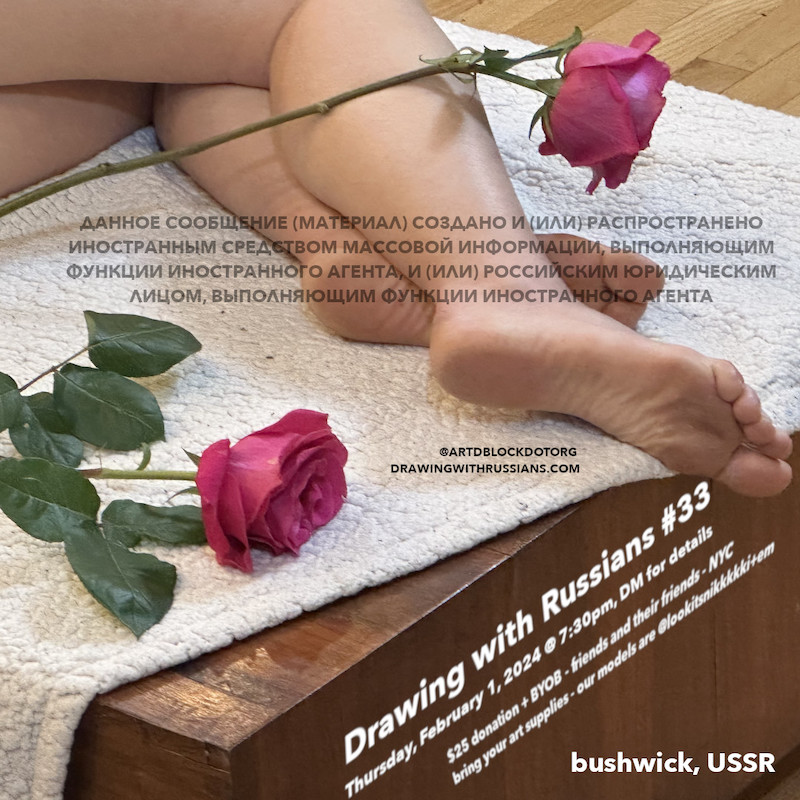
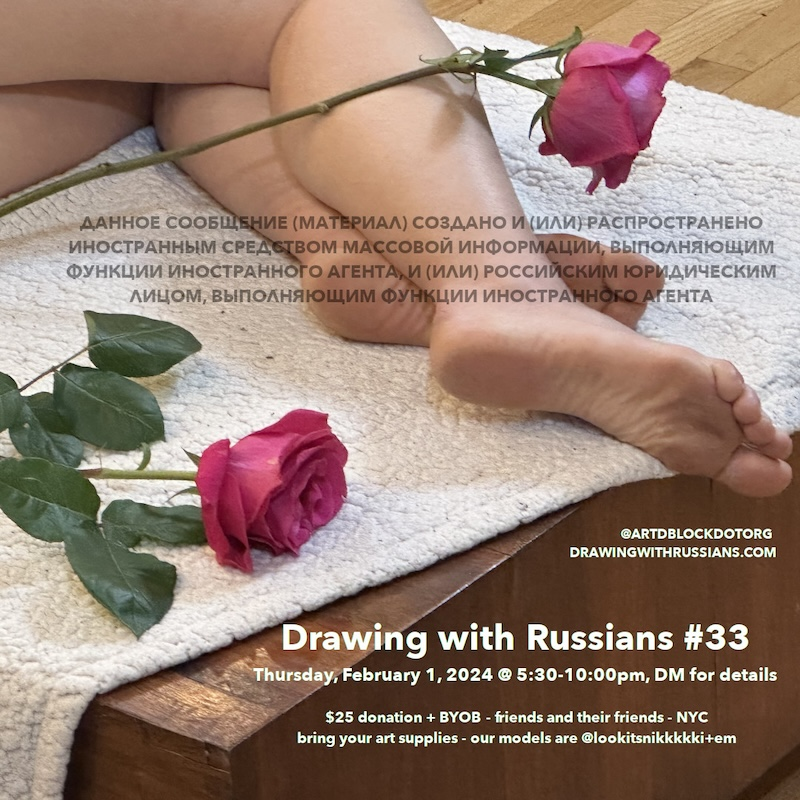
Updated FAQ for #33.

Changed region(s): [[0.3125, 0.5938, 0.9688, 1.0], [0.5, 0.5625, 0.7188, 0.5938]]

diff --git a/faq.html b/faq.html
@@ -14,26 +14,25 @@
         <div class="answer">Drawing with Russians is a non-instructed figure drawing salon, loosely, or culturally, affiliated with Russian speakers, followed by an after-party.</div>
 
         <div class="question">When is Drawing with Russians?</div>
-        <div class="answer">Drawing with Russians is on the first Thursday of every month, except when otherwise. We used to open doors at 7, but are moving time up to earlier at 6pm.</div>
+        <div class="answer">Drawing with Russians is on the first Thursday of every month, except when otherwise. Doors open at <strike>7pm</strike>, 5:30pm, and close at 6:30pm, or when we're at capacity, whichever comes first. Just like most good things in Russia, the after party ends abruptly at 10:00pm.</div>
 
         <div class="question">Why is this event called "Drawing with Russians"?</div>
         <div class="answer">The host coined the name in 2015 while attending a figure drawing gathering almost exclusively composed of Russian speakers, and organized by another Russian-speaking artist.</div>
 
         <div class="question">Why didn't you rename the event after the invasion of Ukraine in 2022?</div>
-        <div class="answer">The war in Ukraine 🇺🇦 is a tragedy, and we stand with the people of Ukraine. Russia has gifted the world tremendous art and culture, along with its share of murderers, brought to power with the hands of its people that often supported their
-            crimes, chose to, couldn't, or wouldn't resist. This is the truth. We still admire Russian culture and didn't want to hide our origins by changing the name of the event.</div>
+        <div class="answer">The war in Ukraine 🇺🇦 is a tragedy, and we stand with the people of Ukraine. Russia has gifted the world tremendous art and culture, along with its share of murderers, brought to power with the hands of its people that often supported their crimes, chose to, couldn't, or wouldn't resist. This is the truth. We still admire Russian culture and didn't want to hide our origins by changing the name of the event.</div>
 
         <div class="question">When is the next drawing?</div>
-        <div class="answer">Please <a href="subscribe.html">sign up</a> for our mailing list and we'll send you an invitation about a week in advance.</div>
+        <div class="answer">Please <a href="subscribe.html">sign up</a> for our mailing list and we'll send you an invitation about a week in advance, followed by a confirmation within 24 hours of the event.</div>
 
         <div class="question">This FAQ is long, should I read the entire thing?</div>
-        <div class="answer">Yes, we ask you to read this entire FAQ to avoid asking too many questions. The most interesting ones are towards the end.</div>
+        <div class="answer">Yes, we ask you to read this entire FAQ to avoid asking too many questions. The most interesting ones are towards the end, but don't skip the middle.</div>
 
         <div class="question">What happens at figure drawing with Russians during drawing?</div>
         <div class="answer">We socialize, drink wine (for those who drink), and draw a model in 20-minute intervals for about 2 hours. Short poses first, long poses last.</div>
 
         <div class="question">What are the rules during drawing?</div>
-        <div class="answer">Russian prison rules: no photos of the model, no talking, not even whispering, and you must draw.</div>
+        <div class="answer">We obey Russian prison rules. No photos of the model, no talking, not even whispering, and you must draw.</div>
 
         <div class="question">Can I come to Drawing with Russians even though I am not Russian?</div>
         <div class="answer">While encouraged, you do not have to be Russian or a Russian speaker to come. Typically, most attendees are not Russian, but we would be happy to <a href="books.html">recommend some books</a> before your first visit.</div>
@@ -51,7 +50,7 @@
         <div class="answer">Yes enthusiastically. We don't expect you to draw well, nor to speak French fluently as most properly educated Russians. And while we do occasionally host professional artists, we see a lot more beginners.</div>
 
         <div class="question">Is there a model?</div>
-        <div class="answer">Yes, there is a model, and they are paid to pose with your suggested donations of $25 per person.</div>
+        <div class="answer">Yes, there is a model, and they are paid to pose with your suggested donations of $25 per person. Sometimes we have two models.</div>
 
         <div class="question">Is the model nude?</div>
         <div class="answer">Yes.</div>
@@ -63,10 +62,10 @@
         <div class="answer">Yes, we do, when we send the invitation about a week in advance.</div>
 
         <div class="question">Can I model at Drawing with Russians?</div>
-        <div class="answer">Yes, please attend one event, and mention to the host that you would like to pose.</div>
+        <div class="answer">Yes, we hire models exclusively from attendees. Please attend an event, and mention to the host that you would like to pose, then reach out via e-mail to set a date.</div>
 
         <div class="question">How long is the drawing?</div>
-        <div class="answer">Drawing is typically 2 hours with breaks every 20 minutes. We typically start with 5x short 1-minute poses, 5x 5-minute poses, 3x 10-minute poses, and finish with 2x 20-minute ones.</div>
+        <div class="answer">Drawing is 2 hours with breaks every 20 minutes. We start with 5x short 1-minute poses, 5x 5-minute poses, 3x 10-minute poses, and finish with 2x 20-minute ones.</div>
 
         <div class="question">Do I need to bring paper and crayons?</div>
         <div class="answer">Yes, please bring your own supplies. That said, we will have charcoal and paper available for those that come without their own for any reason.</div>
@@ -90,7 +89,7 @@
         <div class="answer">No, you will not need to wear a mask, and expect most people to not be wearing one.</div>
 
         <div class="question">Where is drawing?</div>
-        <div class="answer">Drawing started in Hudson Yards, Manhattan, New York, at the host's home and art studio. It's currently attempting to move to a bigger space in Bushwick, Brooklyn, USSR. Personal invitations include all the location details.</div>
+        <div class="answer">Drawing is in Hudson Yards, Manhattan, New York, at the host's home and art studio. We are looking for a new space to accommodate more people, and have attempted, and failed, to move to a bigger space in Bushwick, Brooklyn, USSR. Personal invitations always include all the location details.</div>
 
         <div class="question">How will I know who the host is?</div>
         <div class="answer">The host is the one who runs the timers and makes announcements.</div>
@@ -99,10 +98,10 @@
         <div class="answer">We suggest a $25 donation. This is not a for-profit business. Money is used to pay the model, the space, dealing with building complaints, and alcohol.</div>
 
         <div class="question">Isn't Russian economy growing? Wasn't it $20 during Perestroika?</div>
-        <div class="answer">Yes, Russian economy is always growing, except when otherwise. We used to ask for $20, but the Ruble has suffered from Western sanctions, causing inflation and expensive incidents.</div>
+        <div class="answer">Yes, Russian economy is always growing, except when otherwise. We used to ask for $20, but the Ruble has suffered from Western sanctions, causing inflation and expensive incidents resulting in building fines.</div>
 
         <div class="question">How many people do usually come to drawing?</div>
-        <div class="answer">We have had the pleasure of hosting up to 60 people. Typically, half stay for the after-party.</div>
+        <div class="answer">We have had the pleasure of hosting up to 50 people, which is the absolute max we can handle the same night. Typically, half stay for the after-party.</div>
 
         <div class="question">How can I pay?</div>
         <div class="answer">Bring $25 cash. We will also provide Venmo information during the event. Please remember that we have files on you and your loved ones in the unfortunate event that you forget to pay.</div>
@@ -111,7 +110,7 @@
         <div class="answer">Thank you, yes. We commonly host Russian oligarchs, and will not be inquiring about how you made your fortune.</div>
 
         <div class="question">Do I need to RSVP?</div>
-        <div class="answer">Yes, we ask you to please RSVP by replying to the invitation e-mail. You must RSVP or decline to stay on the list.</div>
+        <div class="answer">Yes, we ask you to please RSVP by replying to the invitation e-mail. You must RSVP or decline to stay on the list. List purges based on arbitrary criteria come unexpected. Please read <a href="https://www.goodreads.com/book/show/70561.The_Gulag_Archipelago_1918_1956" target="_blank">"The Gulag Archipelago" by Aleksandr Solzhenitsyn</a> for more information.</div>
 
         <div class="question">What is the drawing vibe?</div>
         <div class="answer">Drawing is quiet. The vibe is chill. The breaks are social. The after party is bohemian.</div>
@@ -120,7 +119,7 @@
         <div class="answer">Yes, you should bring a bottle of something. In Russia we never go to a house empty-handed. We enjoy socializing during breaks, and drawing is followed by an after-party. We'd rather give all the money to the model, too, and not spend it on booze.</div>
 
         <div class="question">Can I bring a friend?</div>
-        <div class="answer">Yes, and tell them to bring a bottle of wine.</div>
+        <div class="answer">Yes, it's better to have 100 friends than 100 rubles. Tell them to bring a bottle of wine.</div>
 
         <div class="question">Are MFA students allowed?</div>
         <div class="answer">Yes, as long as they are young and innocent.</div>
@@ -138,17 +137,19 @@
         <div class="answer">It certainly looks like one, but we don't like that name. You must drink responsibly or we will ask you to leave. If you drive, don't drink at all.</div>
 
         <div class="question">Is there music?</div>
-        <div class="answer">Yes, we generally play meditative Russian electronic music via SoundCloud, and an occasional <a href="https://soundcloud.com/omich1920/vd6bhjcnlcmr">classic from the 90s</a>. Our playlist is <a href="https://soundcloud.com/dblockdotorg/sets/drawing-with-russians-2024"
-                target="_blank">here</a> and an older one is <a href="https://soundcloud.com/dblockdotorg/sets/drawing-with-russians" target="_blank">here</a>.</div>
+        <div class="answer">Yes, we generally play meditative Russian electronic music via SoundCloud, and an occasional <a href="https://soundcloud.com/omich1920/vd6bhjcnlcmr">classic from the 90s</a>. Our playlist is <a href="https://soundcloud.com/dblockdotorg/sets/drawing-with-russians-2024" target="_blank">here</a> and an older one is <a href="https://soundcloud.com/dblockdotorg/sets/drawing-with-russians" target="_blank">here</a>.</div>
 
         <div class="question">Can I still come if I'm late?</div>
-        <div class="answer">Yes you can. No need to warn us. Please walk in quietly, and wait for the next break to setup.</div>
+        <div class="answer"><strike>Yes you can.</strike> Not anymore given a large number of people attending. If you are just a few minutes late, please walk in quietly, and wait for the next break to setup.</div>
 
         <div class="question">How do I get in? Should I ring the doorbell?</div>
-        <div class="answer">The Hudson Yards location has an intercom. Be patient, especially if you're late. If others are walking in, or a door person is holding the door, please mention where you're going and just walk in. The Bushwick location has big glass doors with pink and black on them. Walk in.</div>
+        <div class="answer">Please dial 1004 on the intercom. Be patient, especially if you're not on time. If others are walking in, or a door person is holding the door, please mention where you're going and walk in.</div>
 
         <div class="question">Do I have to take my shoes off?</div>
-        <div class="answer">Yes, it's preferred.</div>
+        <div class="answer">Yes, it's preferred. We have a coat rack and save an area for shows inside.</div>
+
+        <div class="question">Do you have space for a big bag?</div>
+        <div class="answer">No, space is very limited. Please be kind and avoid bringing your luggage.</div>
 
         <div class="question">Do you have any social media?</div>
         <div class="answer">Yes, please follow <a target="_blank" href="https://instagram.com/artdblockdotorg">@artdblockdotorg</a> on Instagram. You will find some videos and photos from prior events there.</div>
@@ -157,76 +158,71 @@
         <div class="answer">The event became a regular affair in the early post-isolation phase of the 2021 pandemic. We've now hosted over 30.</div>
 
         <div class="question">Do you make a unique flyer for every Drawing with Russians occurrence?</div>
-        <div class="answer">Yes. Click "invites" on the <a href="index.html">homepage</a> to see them. You can also buy some OG ones as 1/1 NFTs <a href="https://rarible.com/artdblockdotorg" target="_blank">on Rarible</a>. The <a href="https://rarible.com/token/0xd07dc4262bcdbf85190c01c996b4c06a461d2430:376823">first one</a>            was sold to a major collector. Ape in.</div>
+        <div class="answer">Yes. Click "invites" on the <a href="index.html">homepage</a> to see them. You can also buy some OG ones as 1/1 NFTs <a href="https://rarible.com/artdblockdotorg" target="_blank">on Rarible</a>. The <a href="https://rarible.com/token/0xd07dc4262bcdbf85190c01c996b4c06a461d2430:376823">first one</a> was sold to a major collector. Ape in.</div>
 
         <div class="question">Can I take photos during drawing?</div>
         <div class="answer">No, you cannot take photos during a pose without prior agreement with the model. If you see someone taking photos of our model, please let the host know ASAP. The FSB will check their phone for us.</div>
 
         <div class="question">Is there enough light, or a view?</div>
-        <div class="answer">The Hudson Yards loft has bright lights, 10 windows, and a largely unobstructed view of the Empire State building, including from the bathtub. Our new location in Bushwick is a big, bright, open basement with 20 feet of ceiling. It's grand.</div>
+        <div class="answer">The loft has bright lights, 10 windows, and a largely unobstructed view of the Empire State building, including from the bathtub.</div>
 
-        <div class="question">Is there food?</div>
-        <div class="answer">Absolutely not. This is Drawing with Russians in Manhattan, not a buffet show at Tatiana in Brighton Beach.</div>
-
-        <div class="question">Can I bring food?</div>
-        <div class="answer">We'd rather you not. You could order pizza for everyone after drawing if you want to.</div>
+        <div class="question">Is there food and can I bring dinner?</div>
+        <div class="answer">Absolutely not. This is Drawing with Russians in Manhattan, not a buffet show at Tatiana in Brighton Beach. Please don't bring any food.</div>
 
         <div class="question">Is there a liquor store where I can buy wine?</div>
-        <div class="answer">Just like in Russia, there is a liquor store within half a block. Unlike Russia, liquor stores don't run out of alcohol.</div>
+        <div class="answer">Just like in Russia, there is a liquor store within half a block in every direction. Unlike Russia, liquor stores don't run out of alcohol.</div>
 
         <div class="question">Is there a grocery store where I can buy beer?</div>
-        <div class="answer">Unlike Russia, there's a grocery store and a deli on the block. If you go to the grocery store, please ask whether the person standing in line in front of you likes to draw.</div>
+        <div class="answer">Unlike Russia, there's a grocery store and a deli at every end of the block. If you go to the grocery store, please ask whether the person standing in line in front of you likes to draw.</div>
 
-        <div class="question">How tall is the tallest plant in the drawing space in Hudson Yards?</div>
-        <div class="answer">The tallest plant is a 9ft tall Bird of Paradise and was a generous gift by the artist Younhee Paik. She had a studio in the building before moving to California.</div>
+        <div class="question">How tall is your tallest plant?</div>
+        <div class="answer">The tallest plant is a 10ft tall Bird of Paradise and was a generous gift by the artist Younhee Paik. She had a studio in the building before moving to California.</div>
 
         <div class="question">Is there a place to smoke?</div>
-        <div class="answer">The Hudson Yards building is non-smoking, including the roof. You may not smoke out of the windows and will need to take cigarettes downstairs. Please step away from the building entrance to smoke and do not hold the door open. We don't mind devices that don't
-            emit any smell. We're not sure about Bushwick rules, yet.</div>
+        <div class="answer">The Hudson Yards building is non-smoking, including the roof. You may not smoke out of the windows and will need to take cigarettes downstairs. Please ask for a FOB to re-enter the building if you need to smoke, step 15 feet away from the building entrance, and do not hold the door open. We don't mind devices that don't emit any smell.</div>
 
         <div class="question">Is there a bathroom?</div>
-        <div class="answer">Yes, however, in the Hudson Yards space, you may find it lacks similar privacy features compared to typical bathrooms. You will know whether someone is using it already. The Bushwick space has some bathrooms that fit two.</div>
+        <div class="answer">Yes, however, you may find it lacks similar privacy features compared to typical bathrooms. You will be able to see whether someone is using it, and if you squint, you can see the Empire State Building from the bathtub.</div>
+
+        <div class="question">Am I allowed to hang in the building lobby or corridor?</div>
+        <div class="answer">Please keep quiet, and do not hang out, or loiter in the building lobby, corridor, elevator, or steps outside. The building has cameras everywhere, possibly with facial recognition, inflicts hefty fines for all such activity, and we do our best to respect our neighbors.</div>
 
         <div class="question">Can I just come to drawing, and not stay for the after-party?</div>
         <div class="answer">Absolutely. We'd love it if you stayed, but on average, half the attendees leave shortly after drawing.</div>
 
         <div class="question">Can I just come to the after-party?</div>
-        <div class="answer">We insist that you please come to the drawing, first.</div>
+        <div class="answer">No. We insist that you please come to the drawing, first.</div>
 
         <div class="question">What happens at the after-party?</div>
-        <div class="answer">Drawing is followed by a party where people socialize over a glass of wine and more.</div>
+        <div class="answer">Drawing is followed by a party where people socialize over a glass of wine, and more.</div>
 
         <div class="question">But what actually happens at the after-party?</div>
-        <div class="answer">You may notice people taking their clothes off and engaging in acts <a href="https://en.wikipedia.org/wiki/There_is_no_sex_in_the_USSR" target="_blank">strongly condoned since 1986 in the USSR</a>. You are in no way required to engage in anything
-            beyond holding your glass of wine. We'd love it if you stayed for more, but only if you absolutely wanted to.</div>
+        <div class="answer">You may notice people taking their clothes off and engaging in acts <a href="https://en.wikipedia.org/wiki/There_is_no_sex_in_the_USSR" target="_blank">strongly condoned since 1986 in the USSR</a>. You are in no way required to engage in anything beyond holding your glass of wine. We'd love it if you stayed for more, but only if you absolutely wanted to.</div>
 
         <div class="question">I like someone at the after-party I've never met before, what should I do?</div>
         <div class="answer">Tell them you like them, and ask them whether they'd like more. Unless they reply with a clear "yes", they mean "no". Since we're not actually in Russia, you must respect their choice.</div>
 
-        <div class="question">Someone at the after-party asked me for my permission to touch me, how should I respond?</div>
+        <div class="question">Someone at the after-party asked me for my permission to touch my hand, how should I respond?</div>
         <div class="answer">Unlike Russia, you can exercise your rights here. Say "no" if you're not sure. Say "yes" if you are sure, you would like that. Stay safe.</div>
 
         <div class="question">Someone at the after-party is behaving in ways that aren't appropriate, such as not asking for permission to engage with someone they don't know, who do I tell?</div>
-        <div class="answer">Please interrupt the host in whatever they are doing, and tell them immediately. We will deal with any situation.</div>
+        <div class="answer">You can always call the person out, but please do interrupt the host in whatever they are doing, and tell them immediately. We will deal with any situation.</div>
 
         <div class="question">Have you begun enforcing the mayor Adams' administration New York trash containerization rules of 2023?</div>
-        <div class="answer">Having had the unpleasant experience of taking un-bagged trash out to an overflowing container in the streets of Moscow in the scorching summer heat, we have decided to position multiple NYC sanitation compliant trash bins around the space. Please
-            put your trash in them. Do pay extra attention to perishables, wrappers, sharps, and PPE.</div>
+        <div class="answer">Having had the unpleasant experience of taking un-bagged trash out to an overflowing container in the streets of Moscow in the scorching summer heat, we have decided to position multiple NYC sanitation compliant trash bins around the space. Please put your trash in them. Do pay extra attention to perishables, wrappers, sharps, and PPE.</div>
 
         <div class="question">What do I do if I accidentally spill a glass of wine or break one?</div>
-        <div class="answer">Even though a broken glass is a good reminder of the fragility of our relationships, and that we must treat our loved ones with special care, please do cleanup after yourself. Additionally, we kindly ask you to refrain from reenacting Peter the
-            Great who threw and broke an unbreakable faceted glass in the late 17th century after getting drunk.
+        <div class="answer">Even though a broken glass is a good reminder of the fragility of our relationships, and that we must treat our loved ones with special care, please do cleanup after yourself. Additionally, we kindly ask you to refrain from reenacting Peter the Great who threw and broke an unbreakable faceted glass in the late 17th century after getting drunk.
         </div>
 
         <div class="question">When is it time to leave the after-party?</div>
-        <div class="answer">Signs of a good time to leave include multiple people helping clean up the place, putting their clothes back on, and the music getting very quiet.</div>
+        <div class="answer">We now close at 10:00pm. Signs of a good time to leave include multiple people helping clean up the place, putting their clothes back on, and the music getting very quiet. Please don't be apolitical and pretend like something dramatic like the party wrapping up is not happening, and help a little.</div>
 
         <div class="question">Am I allowed to crash on your Roche Bobois couch after the after-party?</div>
-        <div class="answer">No, the 12-foot-long sectional in Hudson Yards is exclusively reserved for your enjoyment during drawing and the after-party.</div>
+        <div class="answer">No, the 12-foot-long sectional is exclusively reserved for your enjoyment during drawing and the after-party.</div>
 
         <div class="question">Can I retrieve an item I left at drawing? Do you operate a lost and found?</div>
-        <div class="answer">Personal sketchbooks, boxes of crayons, pencil cases, backpacks, bags of tricks, IDs, headphones, phones, devices that ring or vibrate, wallets, scarves, jackets and sweaters will be saved, and can be retrieved upon request. Most sketches and
-            underclothes will be discarded, and will not be sold on EBay. Loss of dignity cannot be returned. If you came with a drawing partner and forgot them at the party, you will be uninvited.
+        <div class="answer">Personal sketchbooks, boxes of crayons, pencil cases, backpacks, bags of tricks, IDs, headphones, phones, devices that ring or vibrate, wallets, scarves, jackets and sweaters will be saved, and can be retrieved upon request. Most sketches and underclothes will be discarded, and will not be sold on EBay. Loss of dignity cannot be returned. If you came with a drawing partner and forgot them at the party, you will be uninvited.
         </div>
 
         <div class="question">I love the FAQ. Can I contribute to it?</div>

diff --git a/index.html b/index.html
@@ -127,7 +127,6 @@
                 "images/invites/2023-11-02-drawing-with-russians-30.jpg",
                 "images/invites/2023-12-07-drawing-with-russians-31.jpg",
                 "images/invites/2024-01-04-drawing-with-russians-32.jpg",
-                "images/invites/2024-02-01-drawing-with-russians-33-moving.jpg",
                 "images/invites/2024-02-01-drawing-with-russians-33.jpg"
             ].map(function(img) {
                 return {
